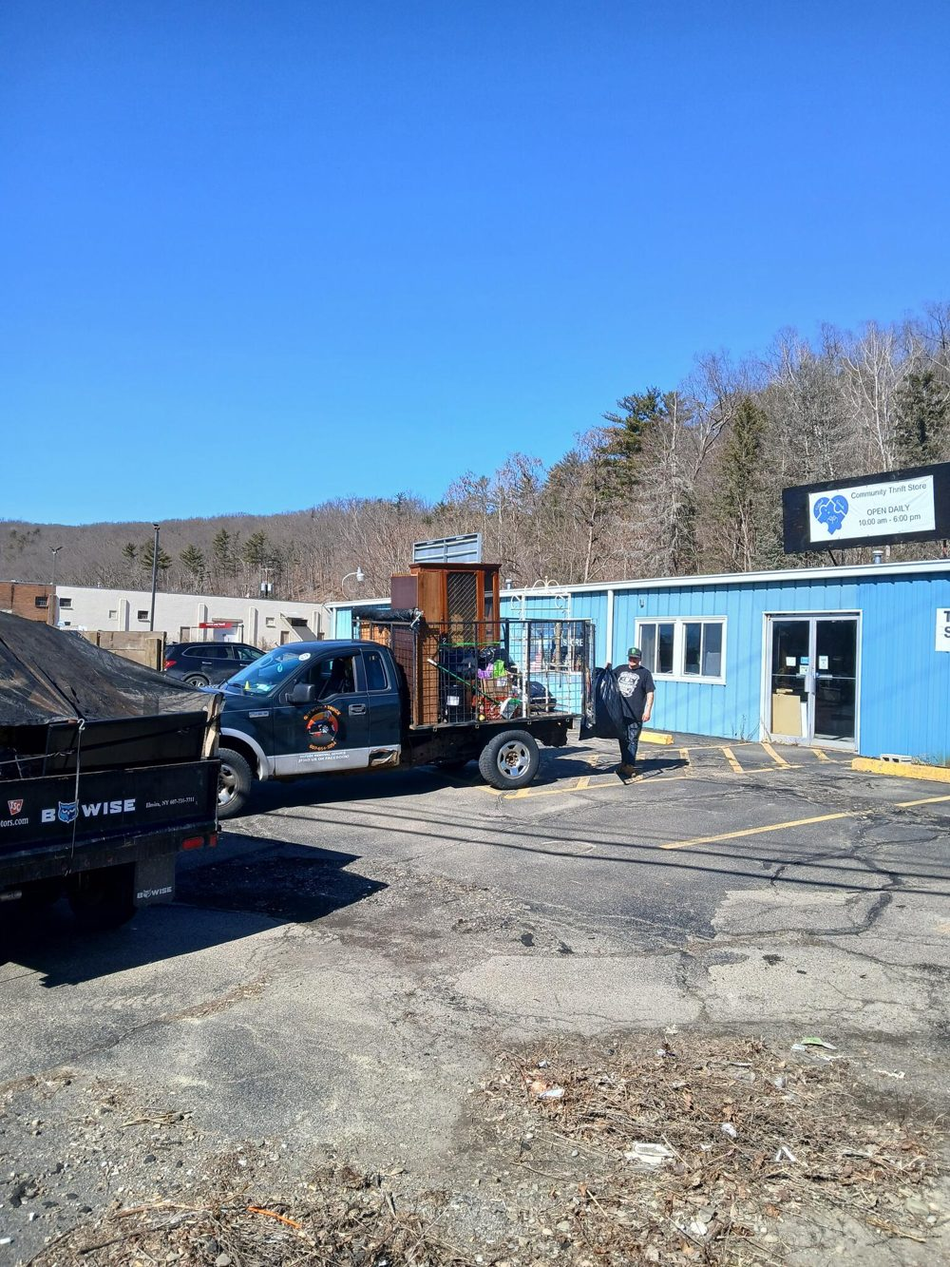
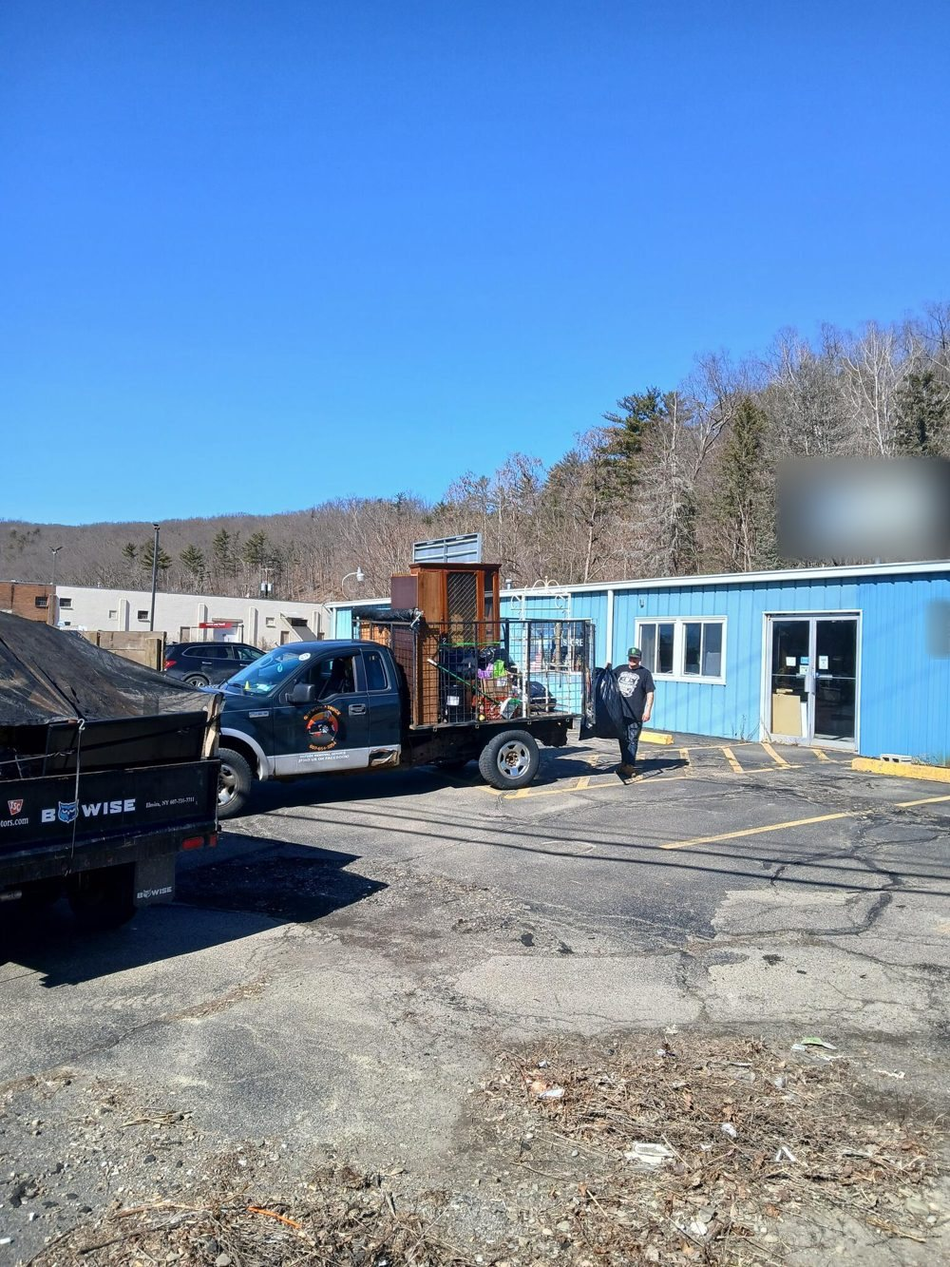
QA fixes: remove trash price, blur plates/sign, root SOURCES.txt, disclaimer, sourced copy only, mobile hero photo first

Changed region(s): [[0.806, 0.3383, 1.0, 0.5229]]

diff --git a/index.html b/index.html
@@ -31,18 +31,18 @@
     <div>
       <span class="eyebrow">Corning, NY · Junk removal &amp; weekly trash</span>
       <h1>Junk gone.<br><span class="sun-text">Trash day handled.</span></h1>
-      <p class="hero-lead">We’re Guy With a Truck: Trey’s local hauling outfit for Corning and the tri-county area. Garage, basement, shed and attic clean-outs, plus valet-style weekly trash pickup. Local hauling that doesn’t break the bank.</p>
+      <p class="hero-lead">We’re Guy With a Truck: Trey’s local hauling business for Corning and the tri-county area. Garage, basement, shed and attic clean-outs, plus valet-style weekly trash pickup. Local hauling that doesn’t break the bank.</p>
       <div class="cta-row">
         <a class="btn btn-sun btn-lg" href="tel:+16076543254"><svg viewBox="0 0 24 24" aria-hidden="true"><path d="M6.6 10.8c1.4 2.8 3.8 5.1 6.6 6.6l2.2-2.2c.3-.3.7-.4 1.1-.2 1.2.4 2.5.6 3.8.6.6 0 1 .4 1 1V20c0 .6-.4 1-1 1C10.6 21 3 13.4 3 4c0-.6.4-1 1-1h3.5c.6 0 1 .4 1 1 0 1.3.2 2.6.6 3.8.1.4 0 .8-.3 1.1L6.6 10.8z"/></svg> Call (607) 654-3254</a>
         <a class="btn btn-line btn-lg" href="sms:+16076543254"><svg viewBox="0 0 24 24" aria-hidden="true"><path d="M20 2H4a2 2 0 0 0-2 2v18l4-4h14a2 2 0 0 0 2-2V4a2 2 0 0 0-2-2zM7 9h10v2H7V9zm6 5H7v-2h6v2zm4-6H7V6h10v2z"/></svg> Text for a quote</a>
       </div>
-      <a class="hero-callout" href="#weekly-trash"><span class="new">Since May 2025</span><span><strong>“Forget about trash day, we’ll take it from here.”</strong><small>Valet-style weekly trash pickup from wherever you keep your can →</small></span></a>
+      <a class="hero-callout" href="#weekly-trash"><span class="new">Since May 2025</span><span><strong>“Forget about trash day, we’ll take it from here”</strong><small>Valet-style weekly trash pickup from wherever you keep your can →</small></span></a>
       <div class="hero-tags"><span>Hauling since 2007</span><span>Full time since 2020</span><span>Fully insured</span></div>
     </div>
     <div class="hero-media">
       <div class="hero-frame"><img src="images/truck-trailer-hero.jpg" alt="Guy With a Truck pickup with its steel cage towing a tarped dump trailer" width="1536" height="1080" fetchpriority="high"></div>
       <div class="hero-mini"><img src="images/loaded-cage.jpg" alt="Truck cage loaded with junk from a clean-out" width="1000" height="1333"></div>
-      <div class="sticker"><div><b>18</b><span>Neighborhood<br>Favorite<br>2026</span></div></div>
+      <div class="sticker"><div><b>18</b><span>Neighborhood<br>Favorite<br>on Nextdoor</span></div></div>
     </div>
   </div>
 </section>
@@ -52,17 +52,17 @@
   <div class="wrap">
     <div class="section-head">
       <span class="eyebrow">Two ways we help</span>
-      <h2>One truck. Two services your week will thank you for.</h2>
-      <p>Bulk removal and clean-outs are what we’re known for. Weekly trash pickup is how we keep your curb clear the rest of the year.</p>
+      <h2>Bulk removal, clean-outs and weekly trash.</h2>
+      <p>Bulk removal and clean-outs will always be our primary focus. Since May 2025 we also run a valet-style weekly trash service around our area.</p>
     </div>
     <div class="duo">
       <a class="ticket" href="junk-removal.html">
         <div class="ticket-img"><img src="images/loaded-cage.jpg" alt="Truck cage packed with boxes and bagged junk outside a house" loading="lazy" width="1000" height="1333"></div>
         <div class="ticket-body">
           <span class="ticket-num">01 · JUNK REMOVAL &amp; CLEAN-OUTS</span>
-          <h3>Clear it out in one haul.</h3>
+          <h3>Junk removal &amp; clean-outs.</h3>
           <p>Commercial and residential bulk refuse removal, done promptly and at wallet-friendly prices.</p>
-          <ul><li>Garage, basement, shed &amp; attic clean-outs</li><li>Household junk, boxes and bulky items</li><li>Residential and commercial jobs</li></ul>
+          <ul><li>Garage, basement, shed &amp; attic clean-outs</li><li>Bulk refuse removal</li><li>Residential and commercial jobs</li></ul>
           <span class="more">See junk removal <svg viewBox="0 0 24 24" aria-hidden="true"><path d="M13.2 5.3 19.9 12l-6.7 6.7-1.4-1.4 4.3-4.3H4v-2h12.1l-4.3-4.3z"/></svg></span>
         </div>
       </a>
@@ -72,8 +72,8 @@
         <div class="ticket-body">
           <span class="ticket-num">02 · WEEKLY TRASH PICKUP</span>
           <h3>Forget about trash day.</h3>
-          <p>Valet-style pickup from wherever you keep your can. We take it from there, once a week.</p>
-          <ul><li>No dragging cans to the curb</li><li>Can returned to its spot, every time</li><li>$44.99/month after tax</li></ul>
+          <p>Valet-style pickup from wherever you keep your can, once a week.</p>
+          <ul><li>No dragging cans to the curb</li><li>Can returned to its spot, every time</li><li>Call or text for current monthly rate</li></ul>
           <span class="more">See weekly trash <svg viewBox="0 0 24 24" aria-hidden="true"><path d="M13.2 5.3 19.9 12l-6.7 6.7-1.4-1.4 4.3-4.3H4v-2h12.1l-4.3-4.3z"/></svg></span>
         </div>
       </a>
@@ -86,7 +86,7 @@
   <div class="wrap trash-grid">
     <div>
       <span class="since"><svg viewBox="0 0 24 24" aria-hidden="true"><path d="M3 5h11v9h1V8h3.5L22 12v5h-2a2.5 2.5 0 0 1-5 0H9a2.5 2.5 0 0 1-5 0H2V6a1 1 0 0 1 1-1zm14.5 11a1 1 0 1 0 0 2 1 1 0 0 0 0-2zm-11 0a1 1 0 1 0 0 2 1 1 0 0 0 0-2zM17 10v2h3.2L18.6 10H17z"/></svg> Weekly trash service · Since May 2025</span>
-      <p class="motto"><q>Forget about trash day, we’ll take it from here.</q></p>
+      <p class="motto"><q>Forget about trash day, we’ll take it from here</q></p>
       <p style="font-size:1.12rem;opacity:.9;max-width:600px">Our valet-style weekly trash pickup comes to wherever you keep your can, day to day. No more hauling cans to and from the curb, no worrying about the weather, and no critters ripping into your bags.</p>
       <ul class="checks">
         <li><svg viewBox="0 0 24 24" aria-hidden="true"><path d="M12 2a10 10 0 1 0 0 20 10 10 0 0 0 0-20zm-1.2 14.2-4-4 1.4-1.4 2.6 2.6 5.6-5.6 1.4 1.4-7 7z"/></svg> Picked up from where you keep your can</li>
@@ -100,8 +100,8 @@
     </div>
     <aside class="price-card">
       <img class="logo-bubble" src="images/logo.jpg" alt="Guy With a Truck cartoon logo of Trey in his truck" width="120" height="120">
-      <p class="price">$44.99<small>/month</small></p>
-      <p class="price-note">Full service weekly trash · after tax</p>
+      <p class="price" style="font-size:2rem">Call or text for current monthly rate</p>
+      <p class="price-note">Full service weekly trash · up to 65 gal + no-sort recycling · Friday route</p>
       <div class="route">
         <h4><svg viewBox="0 0 24 24" aria-hidden="true"><path d="M12 2a7 7 0 0 0-7 7c0 5.2 7 13 7 13s7-7.8 7-13a7 7 0 0 0-7-7zm0 9.5A2.5 2.5 0 1 1 12 6.5a2.5 2.5 0 0 1 0 5z"/></svg> Current trash route</h4>
         <ul><li>City of Corning</li><li>Village of Riverside</li><li>Village of Painted Post</li></ul>
@@ -122,9 +122,9 @@
       <input type="range" min="0" max="100" value="50" aria-label="Drag to compare before and after">
     </div>
     <div>
-      <span class="eyebrow">Real job, real results</span>
-      <h2>From “where do we even start?” to swept clean.</h2>
-      <p style="font-size:1.1rem;color:#43504a">That’s one of our garage clean-outs. Drag the slider to see it. Sheds, basements, attics and garages are our specialty. You point, we load, haul it off and leave the space ready to use again.</p>
+      <span class="eyebrow">Before &amp; after</span>
+      <h2>One of our garage clean-outs.</h2>
+      <p style="font-size:1.1rem;color:#43504a">Drag the slider to see the before and after. We specialize in shed, basement, garage and attic clean-outs, for residential and commercial customers.</p>
       <div class="spec-list">
         <div><svg viewBox="0 0 24 24" aria-hidden="true"><path d="M12 3 2 11h3v9h6v-6h2v6h6v-9h3z"/></svg> Garages</div><div><svg viewBox="0 0 24 24" aria-hidden="true"><path d="M12 3 2 11h3v9h6v-6h2v6h6v-9h3z"/></svg> Basements</div><div><svg viewBox="0 0 24 24" aria-hidden="true"><path d="M21 7 12 2 3 7v10l9 5 9-5V7zm-9 2.7L6.2 6.5 12 3.3l5.8 3.2L12 9.7z"/></svg> Sheds</div><div><svg viewBox="0 0 24 24" aria-hidden="true"><path d="M21 7 12 2 3 7v10l9 5 9-5V7zm-9 2.7L6.2 6.5 12 3.3l5.8 3.2L12 9.7z"/></svg> Attics</div>
       </div>
@@ -141,13 +141,13 @@
     </div>
     <div>
       <span class="eyebrow">Meet the guy</span>
-      <h2>Hi, I’m Trey. Yes, I’m the guy with the truck.</h2>
+      <h2>Meet Trey, the guy with the truck.</h2>
       <p style="font-size:1.1rem;color:#43504a">What started with one truck in 2007 has become a full-time hauling business serving thousands of customers across the tri-county area, always with 100% customer satisfaction in mind.</p>
       <ol class="timeline">
         <li><span class="yr">2007</span><div><h3>First truck, first hauls</h3><p>Trey buys his first truck and starts hauling for local customers.</p></div></li>
         <li><span class="yr">2020</span><div><h3>Guy With a Truck goes full time</h3><p>After 13 years as a side business, hauling becomes the full-time job.</p></div></li>
-        <li><span class="yr">2025</span><div><h3>Weekly trash launches</h3><p>In May 2025 we added valet-style weekly trash pickup around Corning.</p></div></li>
-        <li><span class="yr">2026</span><div><h3>Neighborhood Favorite</h3><p>Named a Nextdoor Neighborhood Favorite in 18 neighborhoods.</p></div></li>
+        <li><span class="yr">2025</span><div><h3>Weekly trash launches</h3><p>In May 2025 we introduced a valet-style weekly trash service.</p></div></li>
+        <li><span class="yr">Today</span><div><h3>Neighborhood Favorite</h3><p>Named a Nextdoor Neighborhood Favorite in 18 neighborhoods.</p></div></li>
       </ol>
     </div>
   </div>
@@ -157,13 +157,13 @@
   <div class="wrap">
     <div class="fav-band">
       <div class="fav-num">18</div>
-      <div><h3>Nextdoor Neighborhood Favorite in 18 neighborhoods, 2026.</h3><p>From Southside Hill and Gang Mills to Big Flats, Addison and Lindley. Thank you, neighbors!</p></div>
+      <div><h3>Nextdoor Neighborhood Favorite in 18 neighborhoods.</h3><p>From Southside Hill and Gang Mills to Big Flats, Addison and Lindley. Thank you, neighbors!</p></div>
     </div>
-    <div class="section-head"><span class="eyebrow">What neighbors say</span><h2>Straight from the neighbors.</h2></div>
+    <div class="section-head"><span class="eyebrow">What neighbors say</span><h2>Neighbor reviews.</h2></div>
     
 <div class="reviews">
   <figure class="review"><div class="q">“</div><blockquote>Very reasonable pricing, came and took my stuff quickly, will be hiring again</blockquote><cite>Neighbor review · Corning, NY</cite></figure>
-  <figure class="review"><div class="q">“</div><blockquote>Trey was very responsive. He set a date and time for the project and kept me informed when he had to push back an hour. He came when I needed him and did the work quickly and efficiently.</blockquote><cite>Neighbor review · Corning, NY</cite></figure>
+  <figure class="review"><div class="q">“</div><blockquote>Trey was very responsive. He set a date and time for the project and kept me informed when he had to push back an hour. He came when I needed him and did the work quickly and efficiently. I don’t have any comparables by which to judge his price, but it certainly seemed fair to me. I will hire him again.</blockquote><cite>Neighbor review · Corning, NY</cite></figure>
   <figure class="review"><div class="q">“</div><blockquote>Oh we loved working with “Guy With a Truck” Definitely recommend!!</blockquote><cite>Neighbor review · Corning, NY</cite></figure>
 </div>
   </div>
@@ -171,11 +171,11 @@
 
 <section class="section">
   <div class="wrap">
-    <div class="section-head"><span class="eyebrow">On the job</span><h2>Our truck, our loads, our town.</h2></div>
+    <div class="section-head"><span class="eyebrow">On the job</span><h2>Our truck on the job.</h2></div>
     <div class="strip">
-      <figure><img src="images/truck-trailer.jpg" alt="Caged pickup towing a tarped dump trailer" loading="lazy" width="1000" height="1333"><figcaption>Truck + trailer for the big jobs</figcaption></figure>
-      <figure><img src="images/loaded-cage.jpg" alt="Loaded truck cage outside a house" loading="lazy" width="1000" height="1333"><figcaption>Packed and ready to haul</figcaption></figure>
-      <figure><img src="images/garage-after.jpg" alt="Empty swept garage after a clean-out" loading="lazy" width="1000" height="1333"><figcaption>Garage clean-out, done</figcaption></figure>
+      <figure><img src="images/truck-trailer.jpg" alt="Caged pickup towing a tarped dump trailer" loading="lazy" width="1000" height="1333"><figcaption>Truck and dump trailer</figcaption></figure>
+      <figure><img src="images/loaded-cage.jpg" alt="Loaded truck cage outside a house" loading="lazy" width="1000" height="1333"><figcaption>Loaded cage</figcaption></figure>
+      <figure><img src="images/garage-after.jpg" alt="Empty swept garage after a clean-out" loading="lazy" width="1000" height="1333"><figcaption>Garage clean-out</figcaption></figure>
       <figure><img src="images/job-site-lot.jpg" alt="Guy With a Truck pickups and trailer at a commercial job site" loading="lazy" width="1000" height="1333" style="object-position:30% 70%"><figcaption>Out on the job</figcaption></figure>
     </div>
   </div>
@@ -186,7 +186,7 @@
   <div class="wrap area-grid">
     <div class="panel">
       <span class="eyebrow">Service area</span>
-      <h2>Proudly hauling the tri-county area.</h2>
+      <h2>Serving the tri-county area.</h2>
       <p>Based in Corning and serving roughly a 30-mile radius, including:</p>
       <div class="towns"><span class="home">Corning</span><span class="">Horseheads</span><span class="">Big Flats</span><span class="">Painted Post</span><span class="">Addison</span><span class="">Campbell</span><span class="">Lindley</span></div>
       <p style="margin:0;color:#55625b">Not sure if we reach you? Call or text and ask. Weekly trash is currently limited to the City of Corning, Village of Riverside and Village of Painted Post.</p>
@@ -230,10 +230,11 @@
         <a href="sms:+16076543254">Text (607) 654-3254</a>
         <a href="mailto:guywithatruck607@gmail.com">guywithatruck607@gmail.com</a>
         <a href="https://nextdoor.com/pages/guy-with-a-truck-corning-ny/" target="_blank" rel="noopener">Find us on Nextdoor</a>
+        <a href="SOURCES.txt">Photo credits</a>
         <p style="margin-top:.8rem;font-size:.9rem">Mon – Sat · 9am – 9pm<br>Sunday closed</p>
       </div>
     </div>
-    <p class="disclaimer">Speculative website concept created by Dev Forge ZA for demonstration purposes. Not the official website of Guy With a Truck unless adopted.</p>
+    <p class="disclaimer">Preview by Dev Forge ZA</p>
   </div>
 </footer>
 <div class="mobile-callbar" aria-label="Quick contact">

diff --git a/junk-removal.html b/junk-removal.html
@@ -30,9 +30,9 @@
   <img class="bg" src="images/truck-trailer-hero.jpg" alt="" width="1536" height="1080">
   <div class="wrap">
     <span class="eyebrow">Service 01 · Junk removal &amp; clean-outs</span>
-    <h1>Point at it. <span class="sun-text">We’ll haul it.</span></h1>
+    <h1>Junk removal <span class="sun-text">&amp; clean-outs.</span></h1>
     <p>Commercial and residential bulk refuse removal across Corning and the tri-county area. We specialize in shed, basement, garage and attic clean-outs.</p>
-    <div class="cta-row"><a class="btn btn-sun btn-lg" href="tel:+16076543254"><svg viewBox="0 0 24 24" aria-hidden="true"><path d="M6.6 10.8c1.4 2.8 3.8 5.1 6.6 6.6l2.2-2.2c.3-.3.7-.4 1.1-.2 1.2.4 2.5.6 3.8.6.6 0 1 .4 1 1V20c0 .6-.4 1-1 1C10.6 21 3 13.4 3 4c0-.6.4-1 1-1h3.5c.6 0 1 .4 1 1 0 1.3.2 2.6.6 3.8.1.4 0 .8-.3 1.1L6.6 10.8z"/></svg> Call (607) 654-3254</a><a class="btn btn-line btn-lg" href="sms:+16076543254"><svg viewBox="0 0 24 24" aria-hidden="true"><path d="M20 2H4a2 2 0 0 0-2 2v18l4-4h14a2 2 0 0 0 2-2V4a2 2 0 0 0-2-2zM7 9h10v2H7V9zm6 5H7v-2h6v2zm4-6H7V6h10v2z"/></svg> Text a photo of the job</a></div>
+    <div class="cta-row"><a class="btn btn-sun btn-lg" href="tel:+16076543254"><svg viewBox="0 0 24 24" aria-hidden="true"><path d="M6.6 10.8c1.4 2.8 3.8 5.1 6.6 6.6l2.2-2.2c.3-.3.7-.4 1.1-.2 1.2.4 2.5.6 3.8.6.6 0 1 .4 1 1V20c0 .6-.4 1-1 1C10.6 21 3 13.4 3 4c0-.6.4-1 1-1h3.5c.6 0 1 .4 1 1 0 1.3.2 2.6.6 3.8.1.4 0 .8-.3 1.1L6.6 10.8z"/></svg> Call (607) 654-3254</a><a class="btn btn-line btn-lg" href="sms:+16076543254"><svg viewBox="0 0 24 24" aria-hidden="true"><path d="M20 2H4a2 2 0 0 0-2 2v18l4-4h14a2 2 0 0 0 2-2V4a2 2 0 0 0-2-2zM7 9h10v2H7V9zm6 5H7v-2h6v2zm4-6H7V6h10v2z"/></svg> Text us</a></div>
   </div>
 </section>
 
@@ -41,7 +41,7 @@
     <div>
       <span class="eyebrow">What we take care of</span>
       <h2>Clean-outs are our specialty.</h2>
-      <p style="font-size:1.1rem;color:#43504a">Whether it’s a garage you haven’t parked in for years, a basement full of boxes, or a shed that finally needs emptying, we load it up and haul it away. Prompt, efficient and wallet-friendly.</p>
+      <p style="font-size:1.1rem;color:#43504a">Commercial and residential bulk refuse removal, specializing in shed, basement, garage and attic clean-outs. Wallet friendly, prompt and efficient service.</p>
       <div class="spec-list">
         <div><svg viewBox="0 0 24 24" aria-hidden="true"><path d="M12 3 2 11h3v9h6v-6h2v6h6v-9h3z"/></svg> Garage clean-outs</div><div><svg viewBox="0 0 24 24" aria-hidden="true"><path d="M12 3 2 11h3v9h6v-6h2v6h6v-9h3z"/></svg> Basement clean-outs</div>
         <div><svg viewBox="0 0 24 24" aria-hidden="true"><path d="M21 7 12 2 3 7v10l9 5 9-5V7zm-9 2.7L6.2 6.5 12 3.3l5.8 3.2L12 9.7z"/></svg> Shed clean-outs</div><div><svg viewBox="0 0 24 24" aria-hidden="true"><path d="M21 7 12 2 3 7v10l9 5 9-5V7zm-9 2.7L6.2 6.5 12 3.3l5.8 3.2L12 9.7z"/></svg> Attic clean-outs</div>
@@ -59,9 +59,9 @@
   <div class="wrap">
     <div class="section-head"><span class="eyebrow">How it works</span><h2>Three steps to a cleared-out space.</h2></div>
     <div class="steps">
-      <div class="step"><h3>Call or text</h3><p>Reach Trey at (607) 654-3254. Tell us what’s going and where. A photo helps.</p></div>
+      <div class="step"><h3>Call or text</h3><p>Reach Trey at (607) 654-3254. Tell us what’s going and where.</p></div>
       <div class="step"><h3>Set a time</h3><p>We set a date and time that works for you, and keep you posted if anything changes.</p></div>
-      <div class="step"><h3>We load &amp; haul</h3><p>We do the heavy lifting, load the truck and trailer, and haul it all away.</p></div>
+      <div class="step"><h3>We load &amp; haul</h3><p>We load it up and haul it away.</p></div>
     </div>
   </div>
 </section>
@@ -77,7 +77,7 @@
           <li><svg viewBox="0 0 24 24" aria-hidden="true"><path d="M12 2a10 10 0 1 0 0 20 10 10 0 0 0 0-20zm-1.2 14.2-4-4 1.4-1.4 2.6 2.6 5.6-5.6 1.4 1.4-7 7z"/></svg> Full time since 2020, thousands of customers served</li>
           <li><svg viewBox="0 0 24 24" aria-hidden="true"><path d="M12 2a10 10 0 1 0 0 20 10 10 0 0 0 0-20zm-1.2 14.2-4-4 1.4-1.4 2.6 2.6 5.6-5.6 1.4 1.4-7 7z"/></svg> Wallet-friendly pricing</li>
           <li><svg viewBox="0 0 24 24" aria-hidden="true"><path d="M12 2a10 10 0 1 0 0 20 10 10 0 0 0 0-20zm-1.2 14.2-4-4 1.4-1.4 2.6 2.6 5.6-5.6 1.4 1.4-7 7z"/></svg> Caged truck plus dump trailer for bigger loads</li>
-          <li><svg viewBox="0 0 24 24" aria-hidden="true"><path d="M12 2a10 10 0 1 0 0 20 10 10 0 0 0 0-20zm-1.2 14.2-4-4 1.4-1.4 2.6 2.6 5.6-5.6 1.4 1.4-7 7z"/></svg> Nextdoor Neighborhood Favorite in 18 neighborhoods, 2026</li>
+          <li><svg viewBox="0 0 24 24" aria-hidden="true"><path d="M12 2a10 10 0 1 0 0 20 10 10 0 0 0 0-20zm-1.2 14.2-4-4 1.4-1.4 2.6 2.6 5.6-5.6 1.4 1.4-7 7z"/></svg> Nextdoor Neighborhood Favorite in 18 neighborhoods</li>
         </ul>
       </div>
       <figure class="review" style="margin:0"><div class="q">“</div><blockquote>Very reasonable pricing, came and took my stuff quickly, will be hiring again</blockquote><cite>Neighbor review · Corning, NY</cite></figure>
@@ -88,10 +88,10 @@
 <section class="section">
   <div class="wrap">
     <div class="strip">
-      <figure><img src="images/loaded-cage.jpg" alt="Truck cage loaded with junk" loading="lazy" width="1000" height="1333"><figcaption>Residential pickup</figcaption></figure>
-      <figure><img src="images/load-on-lawn.jpg" alt="Loaded pickup on a lawn" loading="lazy" width="1000" height="1333"><figcaption>Full cage, one trip</figcaption></figure>
-      <figure><img src="images/truck-trailer.jpg" alt="Truck towing a tarped dump trailer" loading="lazy" width="1000" height="1333"><figcaption>Big loads, one trip</figcaption></figure>
-      <figure><img src="images/job-site-lot.jpg" alt="Trucks at a commercial job site" loading="lazy" width="1000" height="1333" style="object-position:30% 70%"><figcaption>Residential &amp; commercial</figcaption></figure>
+      <figure><img src="images/loaded-cage.jpg" alt="Truck cage loaded with junk" loading="lazy" width="1000" height="1333"><figcaption>Loaded cage</figcaption></figure>
+      <figure><img src="images/load-on-lawn.jpg" alt="Loaded pickup on a lawn" loading="lazy" width="1000" height="1333"><figcaption>On a job</figcaption></figure>
+      <figure><img src="images/truck-trailer.jpg" alt="Truck towing a tarped dump trailer" loading="lazy" width="1000" height="1333"><figcaption>Truck and dump trailer</figcaption></figure>
+      <figure><img src="images/job-site-lot.jpg" alt="Trucks at a commercial job site" loading="lazy" width="1000" height="1333" style="object-position:30% 70%"><figcaption>Out on the job</figcaption></figure>
     </div>
   </div>
 </section>
@@ -100,7 +100,7 @@
   <div class="wrap area-grid">
     <div class="panel">
       <span class="eyebrow">Service area</span>
-      <h2>Proudly hauling the tri-county area.</h2>
+      <h2>Serving the tri-county area.</h2>
       <p>Based in Corning and serving roughly a 30-mile radius, including:</p>
       <div class="towns"><span class="home">Corning</span><span class="">Horseheads</span><span class="">Big Flats</span><span class="">Painted Post</span><span class="">Addison</span><span class="">Campbell</span><span class="">Lindley</span></div>
       <p style="margin:0;color:#55625b">Not sure if we reach you? Call or text and ask. Weekly trash is currently limited to the City of Corning, Village of Riverside and Village of Painted Post.</p>
@@ -144,10 +144,11 @@
         <a href="sms:+16076543254">Text (607) 654-3254</a>
         <a href="mailto:guywithatruck607@gmail.com">guywithatruck607@gmail.com</a>
         <a href="https://nextdoor.com/pages/guy-with-a-truck-corning-ny/" target="_blank" rel="noopener">Find us on Nextdoor</a>
+        <a href="SOURCES.txt">Photo credits</a>
         <p style="margin-top:.8rem;font-size:.9rem">Mon – Sat · 9am – 9pm<br>Sunday closed</p>
       </div>
     </div>
-    <p class="disclaimer">Speculative website concept created by Dev Forge ZA for demonstration purposes. Not the official website of Guy With a Truck unless adopted.</p>
+    <p class="disclaimer">Preview by Dev Forge ZA</p>
   </div>
 </footer>
 <div class="mobile-callbar" aria-label="Quick contact">

diff --git a/weekly-trash.html b/weekly-trash.html
@@ -30,7 +30,7 @@
   <img class="bg" src="images/truck-cage-garage.jpg" alt="" width="1000" height="1333" style="object-position:50% 55%">
   <div class="wrap">
     <span class="eyebrow">Service 02 · Weekly trash · Since May 2025</span>
-    <h1>“Forget about trash day, <span class="sun-text">we’ll take it from here.”</span></h1>
+    <h1>“Forget about trash day, <span class="sun-text">we’ll take it from here”</span></h1>
     <p>Valet-style weekly trash pickup from wherever you keep your can. No curb runs, no weather worries, no critters.</p>
     <div class="cta-row"><a class="btn btn-sun btn-lg" href="tel:+16076543254"><svg viewBox="0 0 24 24" aria-hidden="true"><path d="M6.6 10.8c1.4 2.8 3.8 5.1 6.6 6.6l2.2-2.2c.3-.3.7-.4 1.1-.2 1.2.4 2.5.6 3.8.6.6 0 1 .4 1 1V20c0 .6-.4 1-1 1C10.6 21 3 13.4 3 4c0-.6.4-1 1-1h3.5c.6 0 1 .4 1 1 0 1.3.2 2.6.6 3.8.1.4 0 .8-.3 1.1L6.6 10.8z"/></svg> Call (607) 654-3254</a><a class="btn btn-line btn-lg" href="sms:+16076543254"><svg viewBox="0 0 24 24" aria-hidden="true"><path d="M20 2H4a2 2 0 0 0-2 2v18l4-4h14a2 2 0 0 0 2-2V4a2 2 0 0 0-2-2zM7 9h10v2H7V9zm6 5H7v-2h6v2zm4-6H7V6h10v2z"/></svg> Text to sign up</a></div>
   </div>
@@ -40,7 +40,7 @@
   <div class="wrap trash-grid">
     <div>
       <span class="since"><svg viewBox="0 0 24 24" aria-hidden="true"><path d="M3 5h11v9h1V8h3.5L22 12v5h-2a2.5 2.5 0 0 1-5 0H9a2.5 2.5 0 0 1-5 0H2V6a1 1 0 0 1 1-1zm14.5 11a1 1 0 1 0 0 2 1 1 0 0 0 0-2zm-11 0a1 1 0 1 0 0 2 1 1 0 0 0 0-2zM17 10v2h3.2L18.6 10H17z"/></svg> Weekly trash service · Since May 2025</span>
-      <p class="motto">Your can stays put. <span class="sun-text">We do the rest.</span></p>
+      <p class="motto">Forget about taking your can <span class="sun-text">to the road!</span></p>
       <p style="font-size:1.12rem;opacity:.9;max-width:600px">Our valet-style weekly trash pickup comes to wherever you keep your can, day to day. No more hauling cans to and from the curb, no worrying about the weather, and no critters ripping into your bags.</p>
       <ul class="checks">
         <li><svg viewBox="0 0 24 24" aria-hidden="true"><path d="M12 2a10 10 0 1 0 0 20 10 10 0 0 0 0-20zm-1.2 14.2-4-4 1.4-1.4 2.6 2.6 5.6-5.6 1.4 1.4-7 7z"/></svg> Picked up from where you keep your can</li>
@@ -54,8 +54,8 @@
     </div>
     <aside class="price-card">
       <img class="logo-bubble" src="images/logo.jpg" alt="Guy With a Truck cartoon logo of Trey in his truck" width="120" height="120">
-      <p class="price">$44.99<small>/month</small></p>
-      <p class="price-note">Full service weekly trash · after tax</p>
+      <p class="price" style="font-size:2rem">Call or text for current monthly rate</p>
+      <p class="price-note">Full service weekly trash · up to 65 gal + no-sort recycling · Friday route</p>
       <div class="route">
         <h4><svg viewBox="0 0 24 24" aria-hidden="true"><path d="M12 2a7 7 0 0 0-7 7c0 5.2 7 13 7 13s7-7.8 7-13a7 7 0 0 0-7-7zm0 9.5A2.5 2.5 0 1 1 12 6.5a2.5 2.5 0 0 1 0 5z"/></svg> Current trash route</h4>
         <ul><li>City of Corning</li><li>Village of Riverside</li><li>Village of Painted Post</li></ul>
@@ -67,20 +67,20 @@
 </section>
 <section class="section">
   <div class="wrap">
-    <div class="section-head"><span class="eyebrow">How it works</span><h2>Honestly? You just keep living your life.</h2></div>
+    <div class="section-head"><span class="eyebrow">How it works</span><h2>Continue living your life. No, that’s it, really.</h2></div>
     <div class="steps">
       <div class="step"><h3>Sign up</h3><p>Call or text Trey at (607) 654-3254 to check for an open spot on the route.</p></div>
-      <div class="step"><h3>Leave your can where it lives</h3><p>Side of the house, by the garage, wherever you keep it day to day. That’s where we pick it up.</p></div>
-      <div class="step"><h3>Forget about trash day</h3><p>Once a week we empty it and put your can back in its spot. That’s it, really.</p></div>
+      <div class="step"><h3>Leave your can where it lives</h3><p>Wherever you keep your can on a day to day basis is where it will be picked up once a week.</p></div>
+      <div class="step"><h3>Forget about trash day</h3><p>Your can is returned to its spot, every time.</p></div>
     </div>
   </div>
 </section>
 <section class="section" style="background:var(--paper-2)">
   <div class="wrap two-col">
-    <img class="flyer" src="images/trash-flyer.jpg" alt="Guy With a Truck full service trash removal flyer: $44.99 per month after tax, City of Corning, Village of Riverside, Village of Painted Post" loading="lazy" width="650" height="800">
+    <img class="flyer" src="images/truck-cage-garage.jpg" alt="Guy With a Truck caged pickup parked beside a white garage" loading="lazy" width="1000" height="1333">
     <div>
       <span class="eyebrow">What’s included</span>
-      <h2>Full service, not curbside.</h2>
+      <h2>Full service trash removal.</h2>
       <ul class="checks" style="grid-template-columns:1fr;color:var(--ink)">
         <li><svg viewBox="0 0 24 24" aria-hidden="true"><path d="M12 2a10 10 0 1 0 0 20 10 10 0 0 0 0-20zm-1.2 14.2-4-4 1.4-1.4 2.6 2.6 5.6-5.6 1.4 1.4-7 7z"/></svg> Trash removal from wherever you keep your can</li>
         <li><svg viewBox="0 0 24 24" aria-hidden="true"><path d="M12 2a10 10 0 1 0 0 20 10 10 0 0 0 0-20zm-1.2 14.2-4-4 1.4-1.4 2.6 2.6 5.6-5.6 1.4 1.4-7 7z"/></svg> No more taking your can to the road</li>
@@ -125,10 +125,11 @@
         <a href="sms:+16076543254">Text (607) 654-3254</a>
         <a href="mailto:guywithatruck607@gmail.com">guywithatruck607@gmail.com</a>
         <a href="https://nextdoor.com/pages/guy-with-a-truck-corning-ny/" target="_blank" rel="noopener">Find us on Nextdoor</a>
+        <a href="SOURCES.txt">Photo credits</a>
         <p style="margin-top:.8rem;font-size:.9rem">Mon – Sat · 9am – 9pm<br>Sunday closed</p>
       </div>
     </div>
-    <p class="disclaimer">Speculative website concept created by Dev Forge ZA for demonstration purposes. Not the official website of Guy With a Truck unless adopted.</p>
+    <p class="disclaimer">Preview by Dev Forge ZA</p>
   </div>
 </footer>
 <div class="mobile-callbar" aria-label="Quick contact">

diff --git a/contact.html b/contact.html
@@ -38,7 +38,7 @@
   <div class="wrap">
     <div class="tiles">
       <a class="tile" href="tel:+16076543254"><span class="ic"><svg viewBox="0 0 24 24" aria-hidden="true"><path d="M6.6 10.8c1.4 2.8 3.8 5.1 6.6 6.6l2.2-2.2c.3-.3.7-.4 1.1-.2 1.2.4 2.5.6 3.8.6.6 0 1 .4 1 1V20c0 .6-.4 1-1 1C10.6 21 3 13.4 3 4c0-.6.4-1 1-1h3.5c.6 0 1 .4 1 1 0 1.3.2 2.6.6 3.8.1.4 0 .8-.3 1.1L6.6 10.8z"/></svg></span><strong>(607) 654-3254</strong><span>Call Trey directly</span></a>
-      <a class="tile" href="sms:+16076543254"><span class="ic"><svg viewBox="0 0 24 24" aria-hidden="true"><path d="M20 2H4a2 2 0 0 0-2 2v18l4-4h14a2 2 0 0 0 2-2V4a2 2 0 0 0-2-2zM7 9h10v2H7V9zm6 5H7v-2h6v2zm4-6H7V6h10v2z"/></svg></span><strong>Text us</strong><span>Snap a photo of the junk and send it over</span></a>
+      <a class="tile" href="sms:+16076543254"><span class="ic"><svg viewBox="0 0 24 24" aria-hidden="true"><path d="M20 2H4a2 2 0 0 0-2 2v18l4-4h14a2 2 0 0 0 2-2V4a2 2 0 0 0-2-2zM7 9h10v2H7V9zm6 5H7v-2h6v2zm4-6H7V6h10v2z"/></svg></span><strong>Text us</strong><span>Text (607) 654-3254</span></a>
       <a class="tile" href="mailto:guywithatruck607@gmail.com"><span class="ic"><svg viewBox="0 0 24 24" aria-hidden="true"><path d="M20 4H4c-1.1 0-2 .9-2 2v12c0 1.1.9 2 2 2h16c1.1 0 2-.9 2-2V6c0-1.1-.9-2-2-2zm0 4-8 5-8-5V6l8 5 8-5v2z"/></svg></span><strong style="font-size:1.05rem">guywithatruck607@gmail.com</strong><span>Email anytime</span></a>
     </div>
   </div>
@@ -58,7 +58,7 @@
   <div class="wrap area-grid">
     <div class="panel">
       <span class="eyebrow">Service area</span>
-      <h2>Proudly hauling the tri-county area.</h2>
+      <h2>Serving the tri-county area.</h2>
       <p>Based in Corning and serving roughly a 30-mile radius, including:</p>
       <div class="towns"><span class="home">Corning</span><span class="">Horseheads</span><span class="">Big Flats</span><span class="">Painted Post</span><span class="">Addison</span><span class="">Campbell</span><span class="">Lindley</span></div>
       <p style="margin:0;color:#55625b">Not sure if we reach you? Call or text and ask. Weekly trash is currently limited to the City of Corning, Village of Riverside and Village of Painted Post.</p>
@@ -102,10 +102,11 @@
         <a href="sms:+16076543254">Text (607) 654-3254</a>
         <a href="mailto:guywithatruck607@gmail.com">guywithatruck607@gmail.com</a>
         <a href="https://nextdoor.com/pages/guy-with-a-truck-corning-ny/" target="_blank" rel="noopener">Find us on Nextdoor</a>
+        <a href="SOURCES.txt">Photo credits</a>
         <p style="margin-top:.8rem;font-size:.9rem">Mon – Sat · 9am – 9pm<br>Sunday closed</p>
       </div>
     </div>
-    <p class="disclaimer">Speculative website concept created by Dev Forge ZA for demonstration purposes. Not the official website of Guy With a Truck unless adopted.</p>
+    <p class="disclaimer">Preview by Dev Forge ZA</p>
   </div>
 </footer>
 <div class="mobile-callbar" aria-label="Quick contact">

diff --git a/styles.css b/styles.css
@@ -12,6 +12,7 @@ html{scroll-behavior:smooth}
 body{margin:0;font-family:var(--body);font-size:17px;line-height:1.6;color:var(--ink);background:var(--paper);-webkit-font-smoothing:antialiased}
 img{max-width:100%;height:auto;display:block}
 a{color:inherit}
+button{font:inherit}
 .wrap{width:min(1180px,100% - 40px);margin-inline:auto}
 h1,h2,h3,h4{font-family:var(--display);line-height:1.02;letter-spacing:-.02em;margin:0 0 .4em}
 h1{font-size:clamp(2.7rem,7vw,5.6rem);font-weight:800}
@@ -240,11 +241,13 @@ svg{width:1.1em;height:1.1em;fill:currentColor;flex:none}
   .nav-links.is-open{display:flex}
   .nav-links a:not(.btn){padding:.9rem 0;border-bottom:1px solid rgba(255,255,255,.08)}
   .nav-links .btn{margin-top:1rem}
-  .sticker{width:124px;height:124px;right:-6px;top:-34px;padding:.6rem}
-  .sticker b{font-size:1.8rem}
-  .sticker span{font-size:.56rem}
-  .hero-mini{left:-8px;bottom:-40px;width:30%}
-  .hero-media{margin:1rem 8px 2rem}
+  .sticker{width:104px;height:104px;right:-4px;top:-26px;padding:.5rem}
+  .sticker b{font-size:1.6rem}
+  .sticker span{font-size:.5rem}
+  .hero-mini{display:none}
+  .hero-media{order:-1;margin:1.2rem 8px .4rem}
+  .hero-grid{padding-top:1.2rem;gap:1.6rem}
+  .hero-frame{aspect-ratio:16/10;transform:rotate(1.5deg);border-width:4px}
   .checks,.spec-list{grid-template-columns:1fr}
   .fav-band{grid-template-columns:1fr;gap:1rem}
   .photo-stack{min-height:420px}

diff --git a/README.md b/README.md
@@ -3,6 +3,6 @@
 Corning, NY junk removal, clean-outs and valet-style weekly trash pickup.
 Live: https://rudsrudibotha.github.io/guy-with-a-truck-preview/
 
-Pages: index.html, junk-removal.html, weekly-trash.html, contact.html · styles.css · images/ (business's own photos, see images/SOURCES.txt)
+Pages: index.html, junk-removal.html, weekly-trash.html, contact.html · styles.css · images/ (business's own photos, credits in SOURCES.txt at repo root)
 Contact wired: (607) 654-3254 (tel: and sms:), guywithatruck607@gmail.com. Hours Mon–Sat 9am–9pm.
 Not the official site unless adopted. Generated from briefs/guy-with-a-truck/src/build.py.
